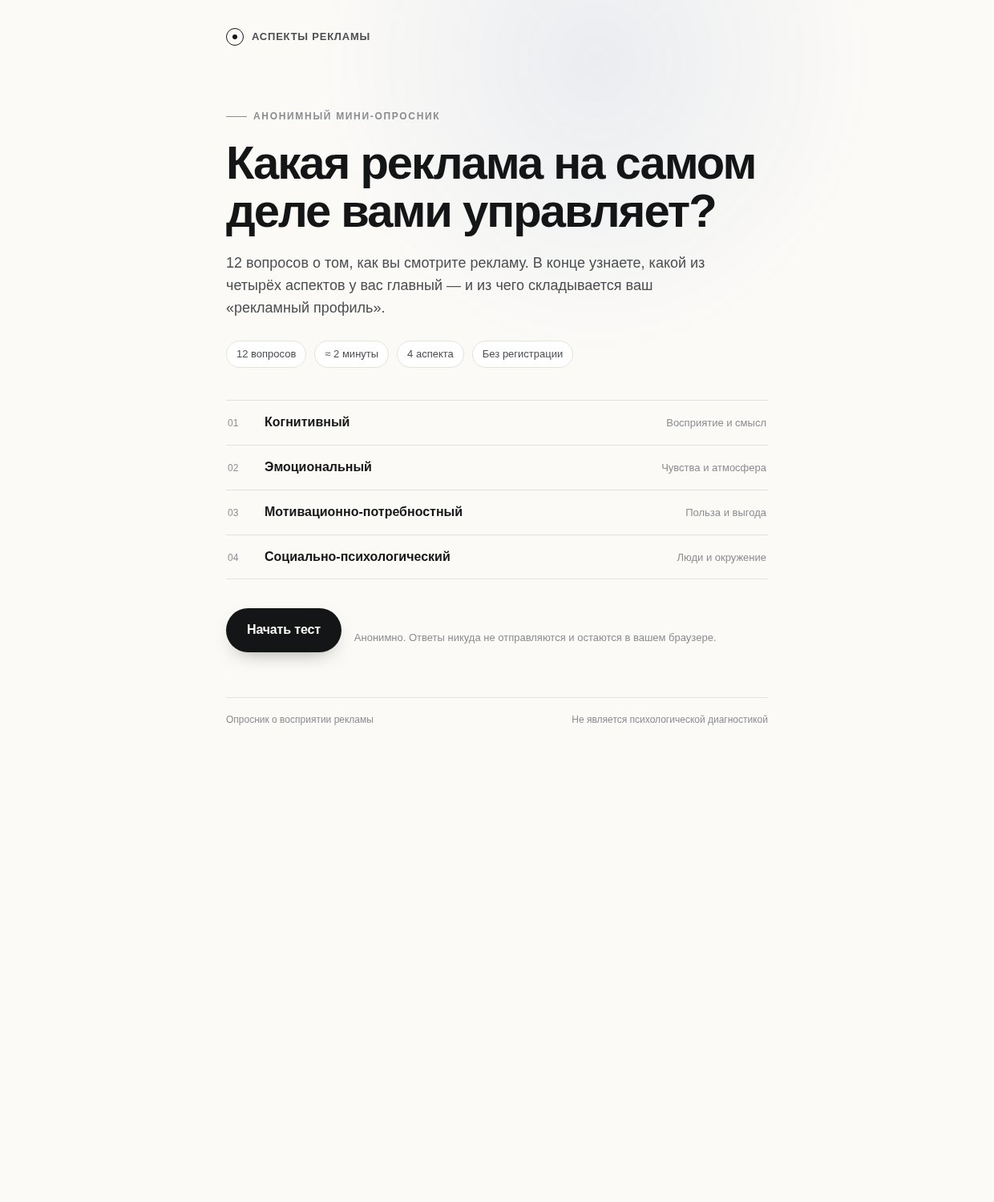
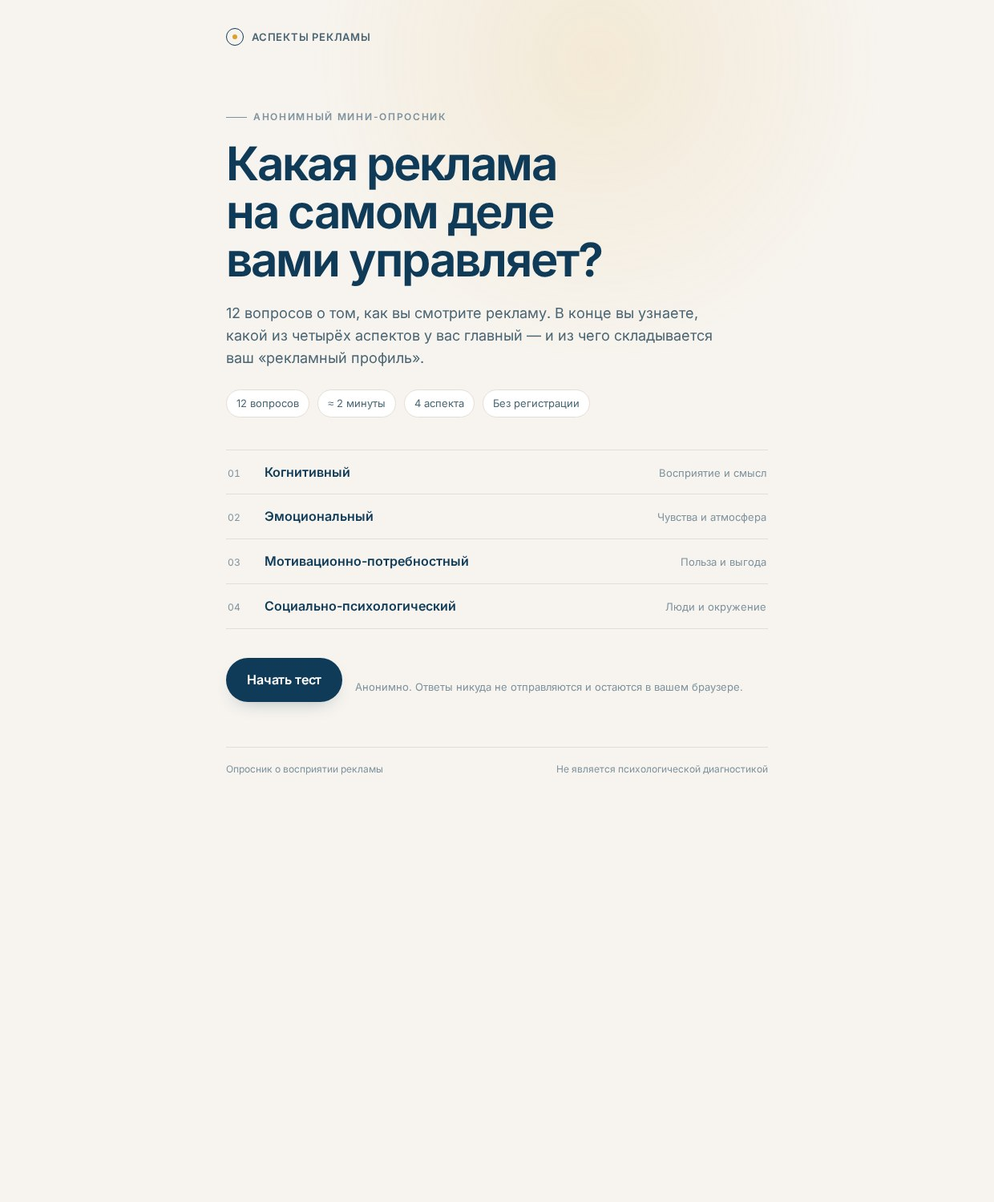
Update question and color theme

diff --git a/src/data.js b/src/data.js
@@ -9,12 +9,12 @@ export const ASPECTS = {
     number: '01',
     title: 'Когнитивный',
     tagline: 'Восприятие и смысл',
-    short: 'Вы читаете рекламу как текст: что именно вам говорят и можно ли этому верить.',
+    short: 'Вы читаете рекламу как текст: вам важно, что именно говорят и можно ли этому верить.',
     description:
       'Для вас реклама — прежде всего источник информации. Вы замечаете, насколько точно она описывает продукт, какие аргументы и цифры приводит, что умалчивает. Вас раздражает пустая болтовня, водянистые слоганы и обещания без доказательств, а хорошая реклама для вас — та, из которой понятно, что именно вы получаете и почему это работает. Вы цените ясность формулировок и легко замечаете логические дыры.',
     keywords: ['смысл', 'аргументы', 'факты', 'понятность'],
-    color: '#1B3FA0',
-    soft: '#E7EDFB',
+    color: '#0F3B59',
+    soft: '#E4EBF0',
   },
   emotional: {
     key: 'emotional',
@@ -23,22 +23,22 @@ export const ASPECTS = {
     tagline: 'Чувства и атмосфера',
     short: 'Вы оцениваете рекламу по тому, что она заставила вас почувствовать.',
     description:
-      'Реклама для вас — это настроение. Удачный ролик может поднять вам его на весь день, а неудачный — испортить. Вы тонко чувствуете атмосферу: музыку, свет, лица, интонации, визуальный стиль. Вам важно, чтобы вам не просто рассказали о продукте, а дали почувствовать, каково будет с ним жить. Вы запоминаете не сообщения, а эмоции, которые они вызвали, — и именно поэтому принимаете решения «сердцем», а потом находите для них разумные объяснения.',
+      'Реклама для вас — это настроение. Удачный ролик может поднять вам настроение на весь день, а неудачный — испортить. Вы тонко чувствуете атмосферу: музыку, свет, лица, интонации, визуальный стиль. Вам важно, чтобы о продукте не просто рассказали, а дали почувствовать, каково будет с ним жить. Вы запоминаете не сообщения, а эмоции, которые они вызвали, — и именно поэтому принимаете решения «сердцем», а потом находите для них разумные объяснения.',
     keywords: ['атмосфера', 'настроение', 'эстетика', 'чувства'],
-    color: '#C2255C',
-    soft: '#FCE8F0',
+    color: '#B07A12',
+    soft: '#F7EBD3',
   },
   motivational: {
     key: 'motivational',
     number: '03',
     title: 'Мотивационно-потребностный',
     tagline: 'Польза и выгода',
-    short: 'Вы смотрите на рекламу через призму вопроса «а что это даст лично мне?».',
+    short: 'Вы смотрите на рекламу через вопрос: «Что это даст лично мне?»',
     description:
-      'Вы всегда держите в голове свою выгоду. Реклама для вас — инструмент решения задачи: экономит время, деньги или нервы — значит, стоит внимания. Вы быстро прикидываете цену вопроса, сравниваете варианты, ищете промокоды и не любите тратить ресурсы впустую. Вами движет не обещание красивой жизни, а честно показанная выгода: удобнее, быстрее, дешевле, надёжнее. Хорошая реклама для вас — та, после которой сразу понятно, зачем вам это нужно.',
+      'Вы всегда держите в голове свою выгоду. Реклама для вас — инструмент решения задачи: если она экономит время, деньги или нервы, значит, она стоит внимания. Вы быстро прикидываете цену вопроса, сравниваете варианты, ищете промокоды и не любите тратить ресурсы впустую. Вами движет не обещание красивой жизни, а честно показанная выгода: удобнее, быстрее, дешевле, надёжнее. Хорошая реклама для вас — та, после которой сразу понятно, зачем вам это нужно.',
     keywords: ['выгода', 'польза', 'выбор', 'решение'],
-    color: '#087F8C',
-    soft: '#E2F5F5',
+    color: '#5C7481',
+    soft: '#E8EDF0',
   },
   social: {
     key: 'social',
@@ -47,10 +47,10 @@ export const ASPECTS = {
     tagline: 'Люди и окружение',
     short: 'Для вас реклама — способ понять, кто вы среди других и куда движется общество.',
     description:
-      'Вы смотрите на рекламу как на зеркало людей. Вам важно, кто в ней показан, на кого она рассчитана и что покупка скажет о вас окружающим. Вы замечаете, как рекламные образы формируют нормы — что модно, что «нормально», к чему стремятся другие. Вы живо реагируете на рекламу, которая задевает людей или, наоборот, показывает их красиво и честно, видите социальные тренды и думаете о сообществах, к которым хотите принадлежать.',
+      'Вы смотрите на рекламу как на зеркало людей. Вам важно, кто в ней показан, на какую аудиторию она рассчитана и что покупка скажет окружающим. Вы замечаете, как рекламные образы формируют нормы — что модно, что «нормально», к чему стремятся другие. Вы живо реагируете на рекламу, которая задевает людей или, наоборот, показывает их красиво и честно. Вы видите социальные тренды и думаете о сообществах, к которым хотите принадлежать.',
     keywords: ['люди', 'тренды', 'статус', 'сообщество'],
-    color: '#6B3FA0',
-    soft: '#F1EAFA',
+    color: '#5A3A2C',
+    soft: '#EFE6E0',
   },
 };
 
@@ -59,15 +59,15 @@ export const ASPECT_ORDER = ['cognitive', 'emotional', 'motivational', 'social']
 export const QUESTIONS = [
   {
     aspect: 'cognitive',
-    text: 'Я замечаю, когда в рекламе всё красиво, но по факту ничего не сказано о продукте.',
+    text: 'Я замечаю, когда реклама красивая, но не содержит конкретной информации о товаре.',
   },
   {
     aspect: 'cognitive',
-    text: 'Перед покупкой я изучаю характеристики и проверяю, не манипулирует ли реклама фактами.',
+    text: 'Я всегда сверяю то, что обещают в рекламе, с реальными характеристиками товара перед покупкой.',
   },
   {
     aspect: 'cognitive',
-    text: 'Понятная и логичная реклама нравится мне больше, чем самая красивая, но бессмысленная.',
+    text: 'Я выберу понятную и логичную рекламу, а не просто красивую картинку.',
   },
   {
     aspect: 'emotional',
@@ -75,15 +75,15 @@ export const QUESTIONS = [
   },
   {
     aspect: 'emotional',
-    text: 'Я покуплю что-то именно потому, что реклама «попала в настроение», даже если не планировал(а).',
+    text: 'Я могу спонтанно купить что-то, даже если не планировал(а), если реклама «попала в настроение».',
   },
   {
     aspect: 'emotional',
-    text: 'Для меня важнее атмосфера, музыка и картинка в рекламе, чем перечисление характеристик.',
+    text: 'В рекламе мне важнее атмосфера, музыка и картинка, чем перечисление характеристик.',
   },
   {
     aspect: 'motivational',
-    text: 'Я смотрю на рекламу через призму вопроса «а что это даст лично мне?».',
+    text: 'Я смотрю на рекламу через вопрос: «Что это даст лично мне?»',
   },
   {
     aspect: 'motivational',
@@ -99,11 +99,11 @@ export const QUESTIONS = [
   },
   {
     aspect: 'social',
-    text: 'Я замечаю, как реклама формирует представление о том, что сейчас «нормально» и модно.',
+    text: 'Я замечаю, как реклама влияет на то, что сейчас считается «нормальным» и модным.',
   },
   {
     aspect: 'social',
-    text: 'Меня задевает реклама, которая неуважительно или стереотипно показывает людей.',
+    text: 'Меня задевает реклама, в которой людей показывают неуважительно или через стереотипы.',
   },
 ];
 
@@ -119,9 +119,9 @@ export const MAX_RAW = QUESTIONS.length * 5; // 60
 
 export const INTRO = {
   title: 'Какая реклама на самом деле вами управляет?',
-  text: '12 вопросов о том, как вы смотрите рекламу. В конце узнаете, какой из четырёх аспектов у вас главный — и из чего складывается ваш «рекламный профиль».',
+  text: '12 вопросов о том, как вы смотрите рекламу. В конце вы узнаете, какой из четырёх аспектов у вас главный — и из чего складывается ваш «рекламный профиль».',
   note: 'Анонимно. Ответы никуда не отправляются и остаются в вашем браузере.',
 };
 
 export const TIE_TEXT =
-  'У вас сразу несколько сильных аспектов — реклама влияет на вас по нескольким каналам одновременно. Это довольно редкая комбинация.';
+  'У вас сразу несколько сильных аспектов: реклама влияет по нескольким каналам одновременно. Это довольно редкая комбинация.';

diff --git a/src/style.css b/src/style.css
@@ -1,13 +1,23 @@
 :root {
-  --bg: #fbfaf7;
-  --ink: #141516;
-  --ink-2: #4b4e52;
-  --muted: #8b8d91;
-  --line: #e5e2da;
-  --card: #ffffff;
-  --accent: #141516;
+  /* Палитра из референса */
+  --yale: #0f3b59;      /* Yale Blue — основной текст, кнопки */
+  --steel: #7d929e;     /* Cool Steel — второстепенный текст */
+  --dust: #dbd4cc;      /* Dust Grey — линии, рамки */
+  --gold: #dba12c;      /* Goldenrod — акцент */
+  --coffee: #3e251e;    /* Dark Coffee — глубокий текст */
+
+  /* Производные */
+  --bg: #f7f4ef;        /* тёплый светлый фон под палитру */
+  --ink: var(--yale);
+  --ink-2: #4a6574;
+  --muted: var(--steel);
+  --line: #e4ddd5;
+  --card: #fffdfa;
+  --gold-deep: #8a6320; /* затемнённый Goldenrod для мелкого текста */
+  --accent: var(--gold);
+
   --radius: 22px;
-  --shadow: 0 1px 2px rgba(20, 21, 22, 0.04), 0 12px 40px -18px rgba(20, 21, 22, 0.18);
+  --shadow: 0 1px 2px rgba(62, 37, 30, 0.03), 0 12px 40px -18px rgba(62, 37, 30, 0.14);
   --font: 'Inter', 'SF Pro Display', 'Suisse Intl', -apple-system, BlinkMacSystemFont, 'Segoe UI',
     Roboto, 'Helvetica Neue', Arial, sans-serif;
 }
@@ -40,8 +50,8 @@ body::before {
   inset: -30vh 0 auto auto;
   width: 80vw;
   height: 70vh;
-  background: radial-gradient(closest-side, rgba(27, 63, 160, 0.07), transparent 70%),
-    radial-gradient(closest-side at 80% 20%, rgba(194, 37, 92, 0.06), transparent 70%);
+  background: radial-gradient(closest-side, rgba(219, 161, 44, 0.13), transparent 72%),
+    radial-gradient(closest-side at 80% 20%, rgba(15, 59, 89, 0.07), transparent 72%);
   pointer-events: none;
   z-index: 0;
 }
@@ -92,7 +102,7 @@ body::before {
   width: 6px;
   height: 6px;
   border-radius: 50%;
-  background: var(--ink);
+  background: var(--gold);
 }
 
 .progress-wrap {
@@ -117,7 +127,7 @@ body::before {
   height: 100%;
   width: 0;
   border-radius: 99px;
-  background: var(--ink);
+  background: var(--gold);
   transition: width 0.45s cubic-bezier(0.22, 1, 0.36, 1);
 }
 
@@ -247,15 +257,15 @@ h1 {
   letter-spacing: -0.01em;
   padding: 15px 26px;
   border-radius: 99px;
-  background: var(--ink);
-  color: var(--bg);
+  background: var(--yale);
+  color: #fff;
   transition: transform 0.18s ease, box-shadow 0.18s ease, background 0.18s ease;
-  box-shadow: 0 10px 26px -14px rgba(20, 21, 22, 0.55);
+  box-shadow: 0 10px 24px -14px rgba(15, 59, 89, 0.45);
 }
 
 .btn:hover {
   transform: translateY(-1px);
-  box-shadow: 0 16px 30px -16px rgba(20, 21, 22, 0.6);
+  box-shadow: 0 16px 30px -16px rgba(15, 59, 89, 0.5);
 }
 
 .btn:active {
@@ -341,7 +351,7 @@ h1 {
 }
 
 .option:hover {
-  border-color: #c9c5ba;
+  border-color: var(--dust);
   transform: translateX(2px);
 }
 
@@ -350,7 +360,7 @@ h1 {
   width: 22px;
   height: 22px;
   border-radius: 50%;
-  border: 1.5px solid #cfccc4;
+  border: 1.5px solid #cfc6bb;
   display: grid;
   place-items: center;
   transition: border-color 0.16s ease, background 0.16s ease;
@@ -366,13 +376,13 @@ h1 {
 }
 
 .option[aria-checked='true'] {
-  border-color: var(--ink);
-  background: #fff;
-  box-shadow: inset 0 0 0 1px var(--ink);
+  border-color: var(--gold);
+  background: #fffcf4;
+  box-shadow: inset 0 0 0 1px rgba(219, 161, 44, 0.3);
 }
 
 .option[aria-checked='true'] .dot {
-  border-color: var(--ink);
+  border-color: var(--gold);
 }
 
 .option[aria-checked='true'] .dot::after {
@@ -386,7 +396,7 @@ h1 {
 .option .num {
   margin-left: auto;
   font-size: 12px;
-  color: #b6b3ab;
+  color: #bdb3a6;
   font-variant-numeric: tabular-nums;
 }
 
@@ -460,7 +470,7 @@ h1 {
   position: absolute;
   inset: 31px;
   border-radius: 50%;
-  background: var(--ink);
+  background: var(--gold);
 }
 
 @keyframes pulse {
@@ -500,12 +510,12 @@ h1 {
   border-radius: var(--radius);
   color: var(--ink);
   background: var(--type-soft, #eee);
-  border: 1px solid rgba(20, 21, 22, 0.06);
+  border: 1px solid rgba(26, 28, 30, 0.07);
 }
 
 .type-number {
   font-size: 12px;
-  letter-spacing: 0.16em;
+  letter-spacing: 0.08em;
   color: var(--type-color, #333);
   font-weight: 700;
 }
@@ -530,7 +540,7 @@ h1 {
   margin: 18px 0 0;
   font-size: 17px;
   line-height: 1.6;
-  color: #23252a;
+  color: #2a3d49;
   text-wrap: pretty;
 }
 
@@ -684,8 +694,9 @@ h1 {
   margin: 40px 0 0;
   padding: 24px;
   border-radius: var(--radius);
-  background: #16171a;
-  color: #eceae4;
+  background: #efe9e1;
+  color: #3e251e;
+  border: 1px solid var(--line);
 }
 
 .tip-block h3 {
@@ -693,7 +704,7 @@ h1 {
   font-size: 13px;
   letter-spacing: 0.12em;
   text-transform: uppercase;
-  color: #a9a7a0;
+  color: #8a6320;
   font-weight: 600;
 }
 
@@ -701,7 +712,7 @@ h1 {
   margin: 10px 0 0;
   font-size: 16px;
   line-height: 1.6;
-  color: #dedbd3;
+  color: #3e251e;
 }
 
 .result-actions {
@@ -815,6 +826,6 @@ h1 {
 @media (hover: hover) and (min-width: 561px) {
   .q-foot .hint::after {
     content: ' · можно клавишами 1–5';
-    color: #b6b3ab;
+    color: #bdb3a6;
   }
 }

diff --git a/src/main.js b/src/main.js
@@ -6,11 +6,11 @@ const app = document.querySelector('#app');
 
 const TIPS = {
   cognitive:
-    'Вы хорошо защищены от красивых обещаний. Одна тонкость: иногда за слабым текстом скрывается толковая вещь — дайте шанс рекламе, которая зацепила не логикой, а чувством, и уже потом проверяйте факты.',
+    'Вы хорошо защищены от красивых обещаний. Одна тонкость: иногда рекламу, которая зацепила вас не логикой, а чувством, откладывают в сторону, хотя за ней стоит толковая вещь. Дайте ей шанс — и уже потом проверяйте факты.',
   emotional:
     'Эмоции — точный компас, но и удобный крючок. Если хочется купить «на настроении», сделайте паузу на сутки: осталось желание — значит, это было про вас, а не про ролик.',
   motivational:
-    'Вы рациональны, и это экономит ресурсы. Следите только за обратной ловушкой: погоня за выгодой иногда заставляет покупать то, что вам не нужно. Спрашивайте себя не «насколько выгодно?», а «нужно ли мне это вообще?».',
+    'Вы рациональны, и это экономит ресурсы. Следите только за обратной ловушкой: погоня за выгодой иногда заставляет покупать то, что вам не нужно. Спрашивайте себя не только о том, насколько это выгодно, но и о том, нужно ли вам это вообще.',
   social:
     'Вы тонко чувствуете людей и тренды. Время от времени проверяйте: купили бы вы это, если бы об этом никто не узнал? Ответ помогает отделить своё желание от ожиданий окружения.',
 };
@@ -119,10 +119,9 @@ function questionScreen() {
   const i = state.index;
   const q = QUESTIONS[i];
   const answer = state.answers[i];
-  const answered = state.answers.filter((a) => a !== null).length;
 
   return `
-    ${topline({ progress: { answered, total, percent: Math.round((answered / total) * 100) } })}
+    ${topline({ progress: { answered: i + 1, total, percent: Math.round(((i + 1) / total) * 100) } })}
     <main class="screen">
       <div class="q-head">
         <span class="q-count"><strong>Вопрос ${i + 1}</strong> из ${total}</span>
@@ -178,7 +177,7 @@ function resultScreen() {
         <span class="result-eyebrow">Ваш результат</span>
 
         <section class="type-block" style="--type-color:${lead.color};--type-soft:${lead.soft}">
-          <span class="type-number">АСПЕКТ ${lead.number}</span>
+          <span class="type-number">Аспект ${lead.number}</span>
           <h1 class="type-name">${esc(lead.title)}</h1>
           <p class="type-tagline">${esc(lead.tagline)}</p>
           <p class="type-desc">${esc(lead.description)}</p>

diff --git a/README.md b/README.md
@@ -21,6 +21,21 @@
 - **Клавиатура**: ответы 1–5, `←` / `→` для навигации.
 - Адаптивная вёрстка, поддержка `prefers-reduced-motion`, доступные `radiogroup` / `details`.
 
+## Палитра
+
+Интерфейс собран на пяти цветах из референса:
+
+| Цвет | HEX | Где используется |
+| --- | --- | --- |
+| Yale Blue | `#0f3b59` | основной текст, кнопки, заголовки |
+| Cool Steel | `#7d929e` | второстепенный текст, подписи |
+| Dust Grey | `#dbd4cc` | линии, рамки, фоны блоков |
+| Goldenrod | `#dba12c` | акценты: прогресс, выбранный ответ, маркер |
+| Dark Coffee | `#3e251e` | блок совета, социальный аспект |
+
+Аспекты окрашены в эти же цвета: когнитивный — Yale Blue, эмоциональный — Goldenrod,
+мотивационный — Cool Steel, социальный — Dark Coffee. Токены лежат в начале `src/style.css`.
+
 ## Стек
 
 Vanilla JS + [Vite](https://vitejs.dev). Ноль UI-зависимостей, шрифт Inter лежит локально.
